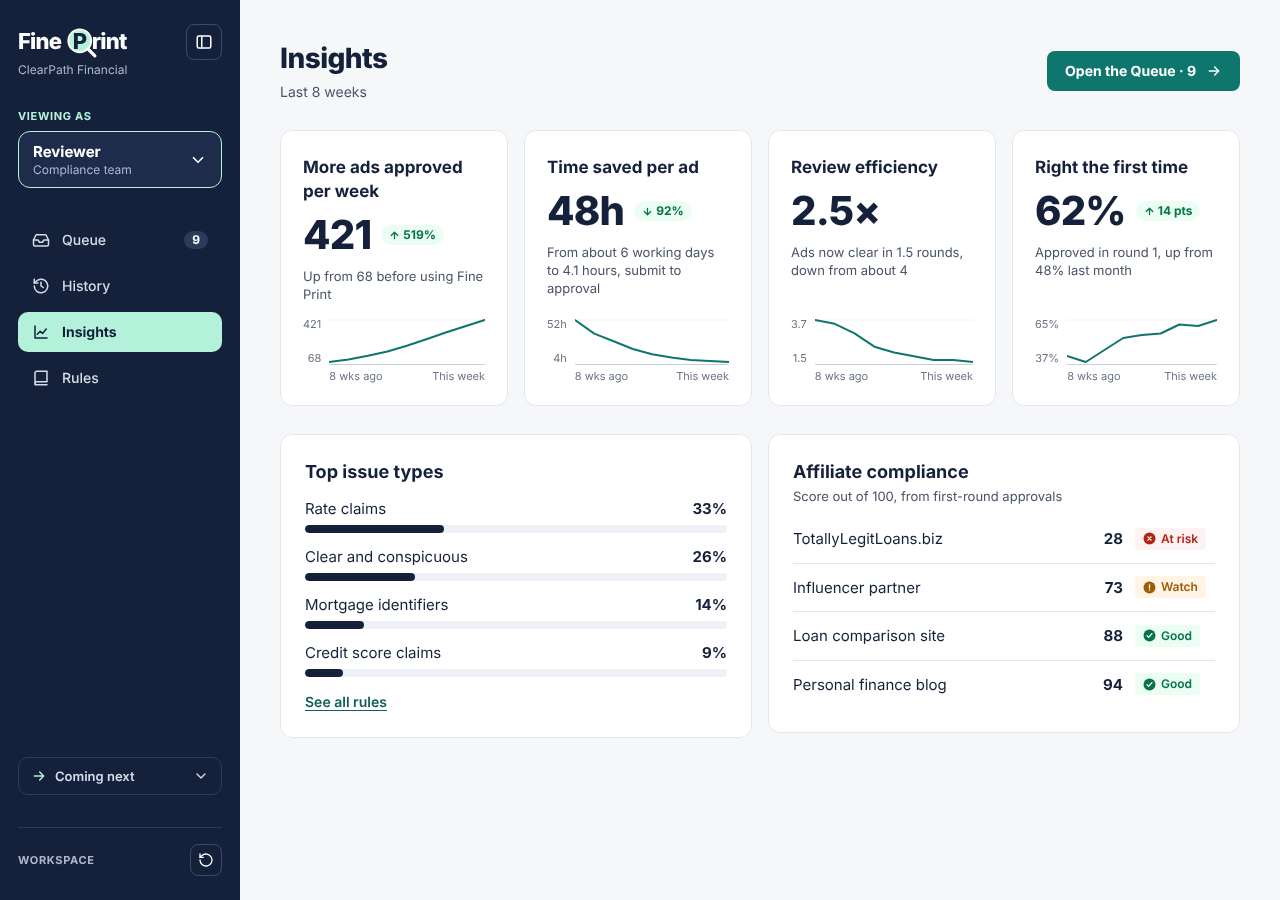
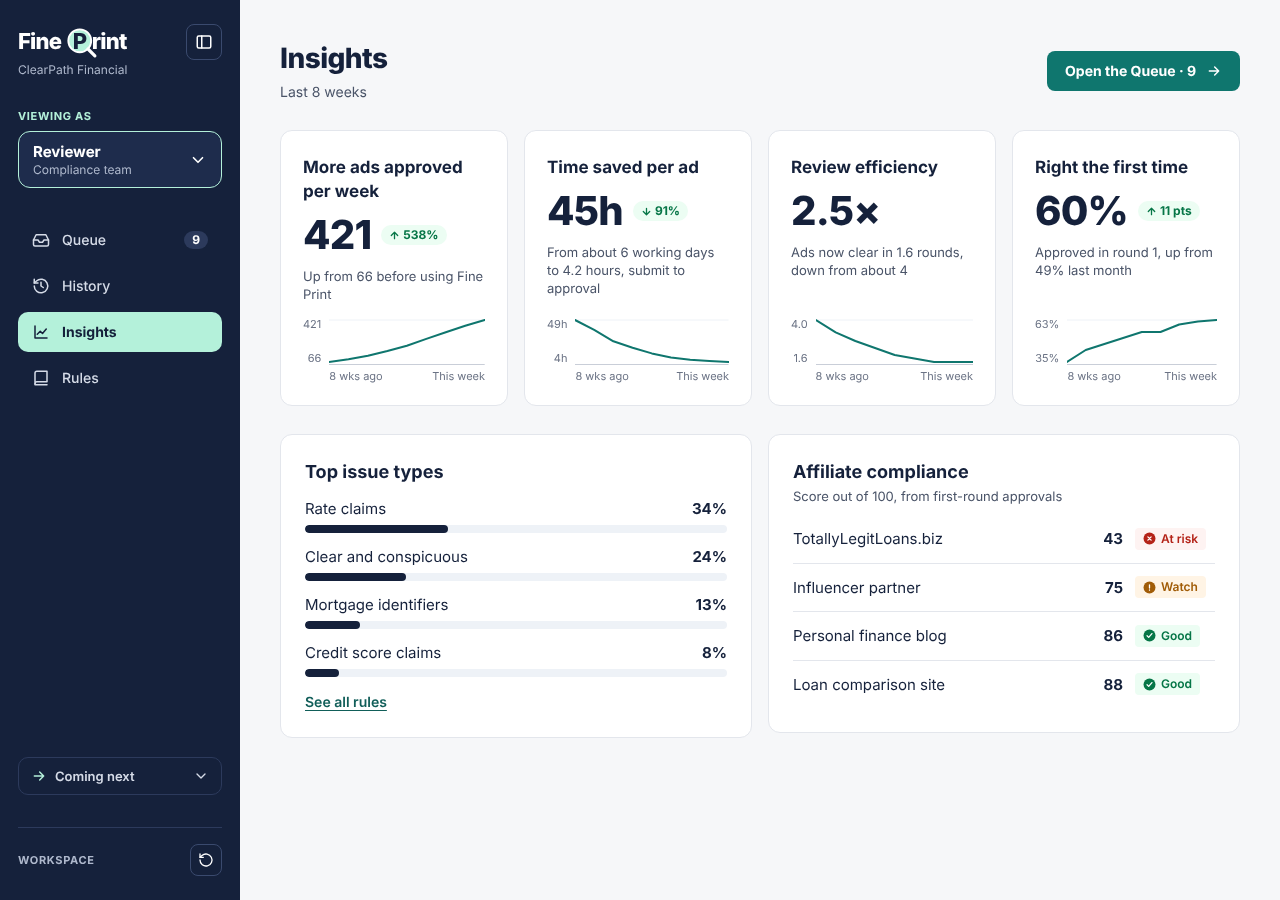
Keep marks and notes on a new draft, fix affiliate score, readable back link, sticky ad only when side by side
- A new draft copies the marketer's resolved marks and notes.
- Rejected affiliate ads no longer count as approved on first review.
- The drawer says 'Why it was rejected' on rejected ads.
- The back link has a 40px target and a hover background.
- The ad panel sticks only at 1200px and wider, so it never overlaps at 1024.
- README stack line matches the Vercel setup.

Claude-Session: https://claude.ai/code/session_01GajTyz92bBm6dN9cgoMqN2

diff --git a/src/pages/PreCheckPage.tsx b/src/pages/PreCheckPage.tsx
@@ -535,7 +535,7 @@ function PreCheckScreen({ detail, reload }: { detail: AdDetail; reload: () => vo
       <div style={{ display: 'flex', flexWrap: 'wrap', gap: 24, alignItems: 'flex-start' }}>
         {/* The ad stays in view while the suggestions scroll; a tall page or email scrolls inside it. */}
         <section
-          className="fp-card"
+          className="fp-card fp-sticky-panel"
           aria-label="Your ad"
           style={{
             flex: '1 1 400px',
@@ -544,10 +544,6 @@ function PreCheckScreen({ detail, reload }: { detail: AdDetail; reload: () => vo
             display: 'flex',
             flexDirection: 'column',
             gap: 16,
-            position: 'sticky',
-            top: 24,
-            maxHeight: 'calc(100vh - 48px)',
-            overflowY: 'auto',
           }}
         >
           <AdView

diff --git a/src/index.css b/src/index.css
@@ -519,14 +519,29 @@ a:hover {
   display: inline-flex;
   align-items: center;
   gap: 6px;
-  font-size: 14px;
-  line-height: 20px;
+  min-height: 40px;
+  padding: 8px 14px 8px 10px;
+  margin-left: -10px;
+  border-radius: 8px;
+  font-size: 15px;
+  line-height: 22px;
   font-weight: 600;
   text-decoration: none;
   color: var(--fp-primary) !important;
 }
 .fp-back-link:hover {
+  background: var(--fp-primary-soft);
   color: var(--fp-primary-hover) !important;
+}
+
+/* The ad stays in view while the list scrolls, only when the two columns sit side by side. */
+@media (min-width: 1200px) {
+  .fp-sticky-panel {
+    position: sticky;
+    top: 24px;
+    max-height: var(--fp-sticky-max, calc(100vh - 48px));
+    overflow-y: auto;
+  }
 }
 
 .fp-version-chip-lg {

diff --git a/src/pages/ReviewPage.tsx b/src/pages/ReviewPage.tsx
@@ -278,13 +278,11 @@ function ReviewScreen({ detail, reload, onCleared }: { detail: AdDetail; reload:
       <div style={{ display: 'flex', flexWrap: 'wrap', gap: 24, alignItems: 'flex-start' }}>
         {/* The ad stays in view while the findings scroll, as in Pre-check, clear of the decision bar. */}
         <div
+          className="fp-sticky-panel"
           style={{
             flex: '1 1 420px',
             minWidth: 0,
-            position: 'sticky',
-            top: 24,
-            maxHeight: pending ? 'calc(100vh - 136px)' : 'calc(100vh - 48px)',
-            overflowY: 'auto',
+            ['--fp-sticky-max' as string]: pending ? 'calc(100vh - 136px)' : 'calc(100vh - 48px)',
             borderRadius: 12,
           }}
         >

diff --git a/src/components/ViewDrawer.tsx b/src/components/ViewDrawer.tsx
@@ -81,7 +81,7 @@ export function ViewDrawer() {
 
           {sent.length > 0 && (
             <section style={{ display: 'flex', flexDirection: 'column', gap: 10 }}>
-              <span style={SECTION_LABEL}>BEFORE IT GOES LIVE</span>
+              <span style={SECTION_LABEL}>{shown.ad.status === 'rejected' ? 'WHY IT WAS REJECTED' : 'BEFORE IT GOES LIVE'}</span>
               {sent.map((finding) => (
                 <div
                   key={finding.id}

diff --git a/tests/server/test_precheck.py b/tests/server/test_precheck.py
@@ -147,3 +147,17 @@ def test_applying_a_suggestion_resolves_it_on_the_new_draft(db):
     by_rule = {f["rule_id"]: f for f in draft["findings"] if f["origin"] == "auto"}
     assert by_rule["rate-claims"]["resolved_by_submitter"] is True
     assert by_rule["credit-score-claims"]["resolved_by_submitter"] is False
+
+
+def test_marks_and_notes_survive_the_first_edit(db):
+    actions.decide(db, 2, "changes_required", "Fix it.", NOW) if repo.ad_detail(db, 2)["ad"]["status"] == "pending" else None
+    current = repo.ad_detail(db, 2)["current"]
+    rate = next(f for f in current["findings"] if f["rule_id"] == "rate-claims")
+    actions.update_finding(db, rate["id"], "resolve")
+    actions.update_finding(db, rate["id"], "note", note="Legal signed off.")
+    layers = [{**l, "text": l["text"] + " "} for l in current["layers"]]
+    layers[0]["text"] = current["layers"][0]["text"] + " today"
+    draft = actions.save_copy(db, 2, layers, NOW)
+    copied = next(f for f in draft["findings"] if f["rule_id"] == "rate-claims")
+    assert copied["resolved_by_submitter"] is True and copied["submitter_note"] == "Legal signed off."
+

diff --git a/server/actions.py b/server/actions.py
@@ -211,8 +211,10 @@ def _working_version(db: Db, ad: dict, create: bool) -> dict | None:
         })
         for f in db.all("SELECT * FROM findings WHERE ad_version_id = ? AND origin = 'auto' AND state != 'dismissed'",
                         (current["id"],)):
+            # The marketer's own marks and notes carry over with the suggestion.
             copy = {k: f[k] for k in ("origin", "rule_id", "severity", "layer_id", "quote", "text", "fix_label",
-                                      "suggested_fix", "position", "created_at")}
+                                      "suggested_fix", "position", "created_at", "resolved_by_submitter",
+                                      "submitter_note")}
             db.insert("findings", {**copy, "ad_version_id": draft_id, "check_run_id": run_id, "state": "open"})
     return db.one("SELECT * FROM ad_versions WHERE id = ?", (draft_id,))
 

diff --git a/server/repo.py b/server/repo.py
@@ -413,7 +413,7 @@ def insights(db: Db, now: datetime) -> dict:
 
     # Each affiliate publisher's score: the share of its ads approved in round 1.
     publishers = db.all(
-        """SELECT source, COUNT(*) AS n, SUM(current_version = 1) AS first FROM ads
+        """SELECT source, COUNT(*) AS n, SUM(current_version = 1 AND status != 'rejected') AS first FROM ads
            WHERE source != 'internal' AND status IN ('approved', 'approved_with_changes', 'rejected')
              AND closed_at >= ? GROUP BY source""", (iso(start),))
     affiliates = []

diff --git a/README.md b/README.md
@@ -88,4 +88,4 @@ Optional: `ANTHROPIC_MODEL` (default `claude-sonnet-5-5`), and `LIVE_CHECKS_PER_
 
 ## Stack
 
-React, TypeScript, Vite and antd on the front end. Flask, libSQL (SQLite locally, Turso in production) and the Anthropic SDK on the server. Vitest, pytest and Playwright for tests.
+React, TypeScript, Vite and antd on the front end. Flask, libSQL (SQLite, locally and on Vercel; Turso also works) and the Anthropic SDK on the server. Vitest, pytest and Playwright for tests.
